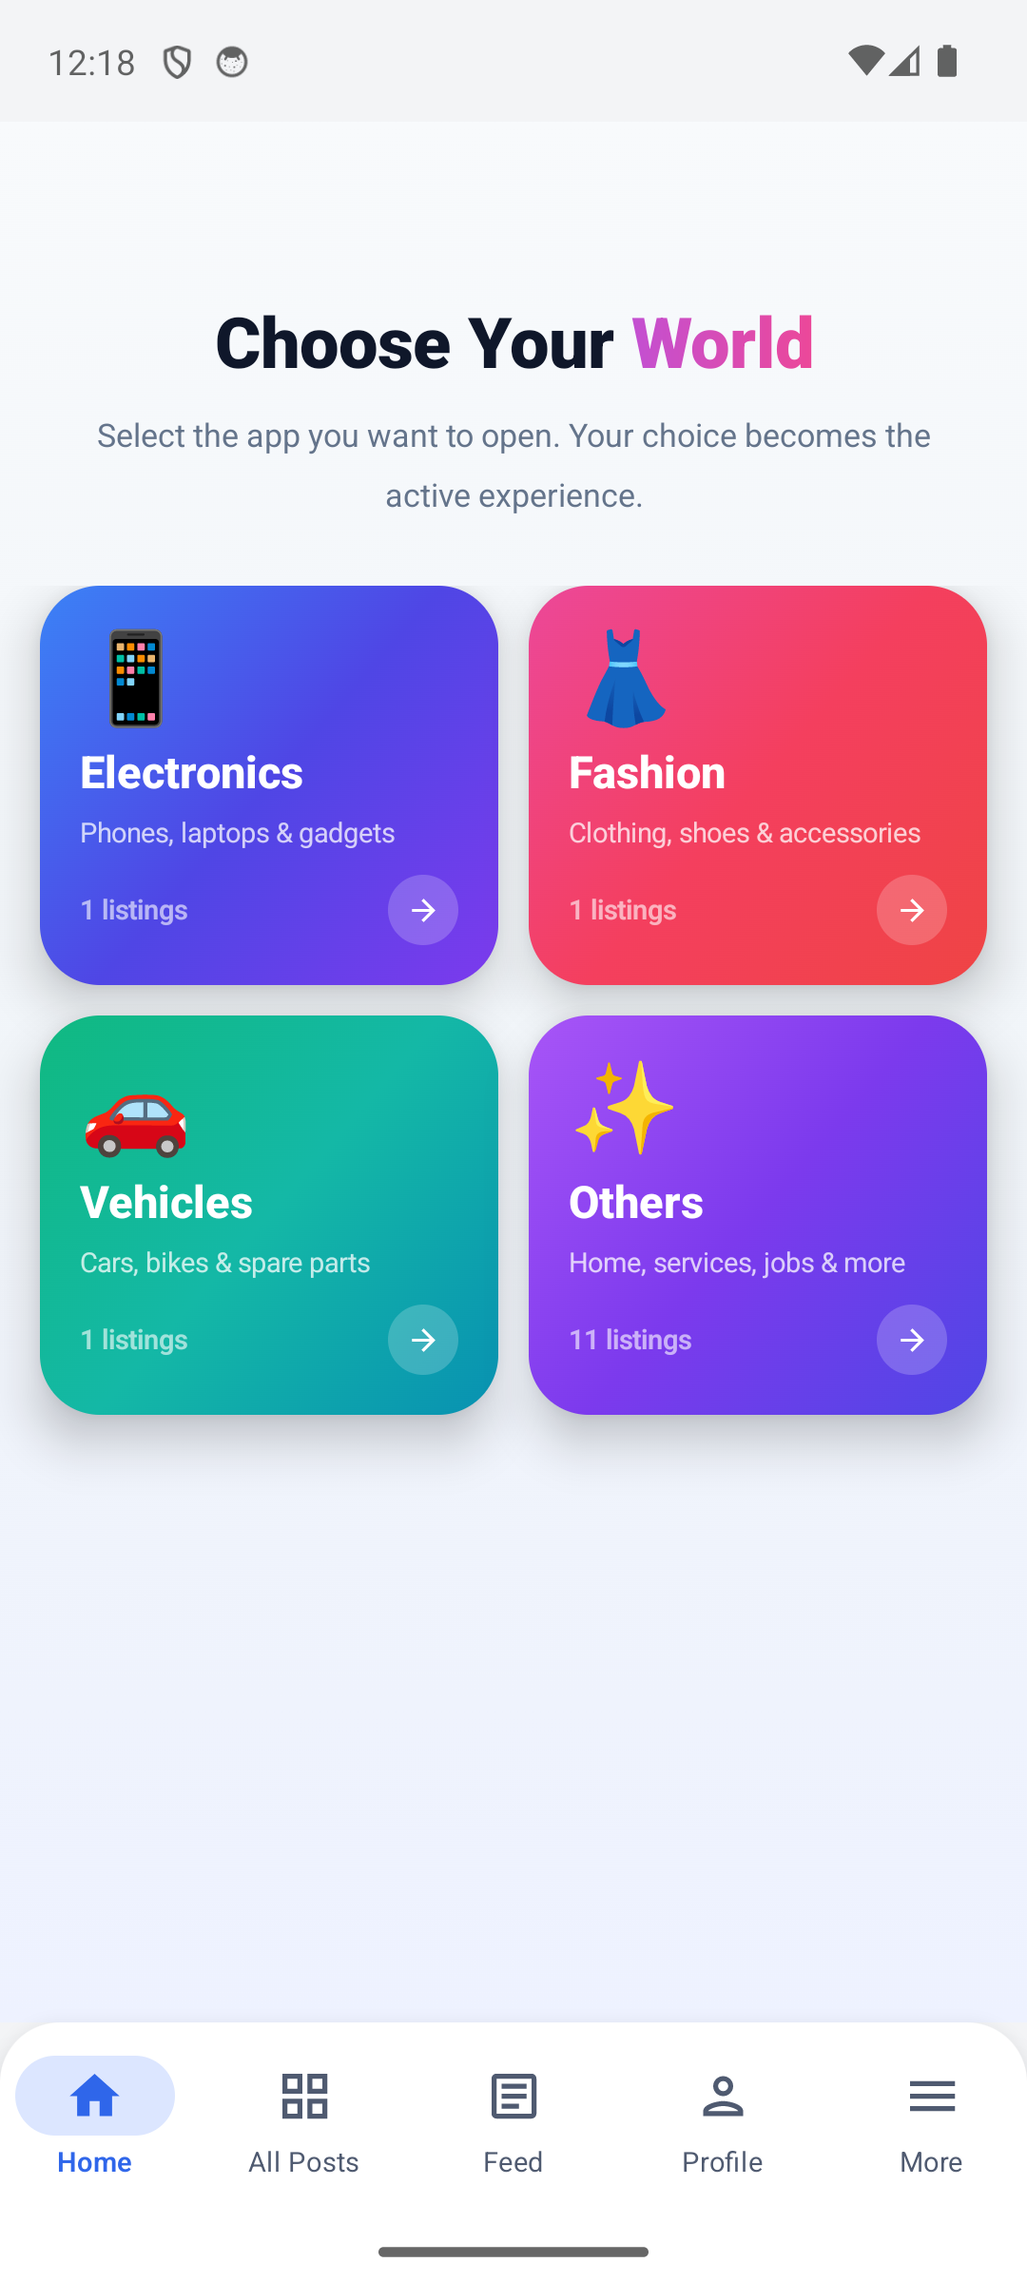
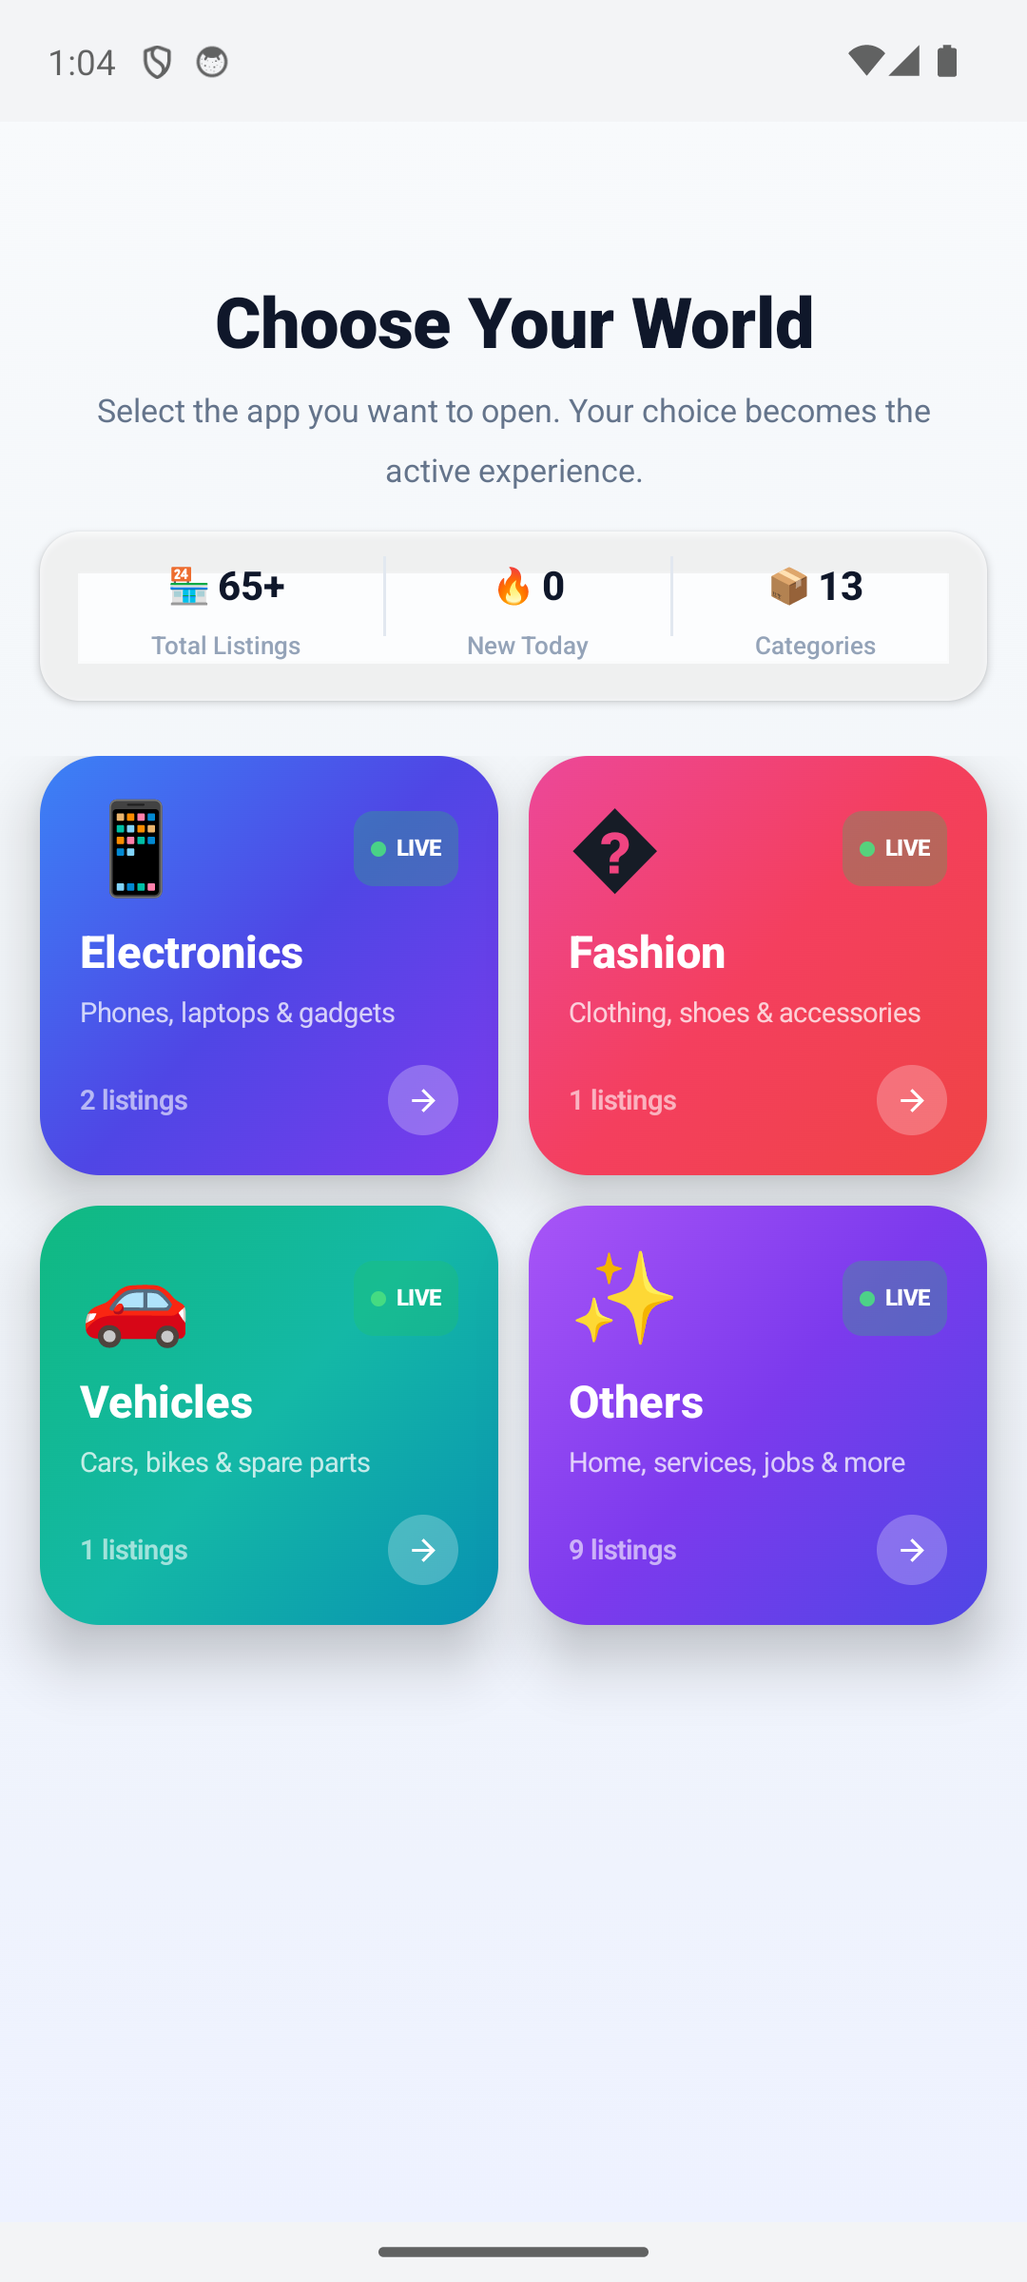
Parity: web-matching bottom nav (ForYou+Feed+Sell FAB), MoreScreen collapsible preferences

diff --git a/android-native/app/src/main/java/com/mhub/app/ui/MhubApp.kt b/android-native/app/src/main/java/com/mhub/app/ui/MhubApp.kt
@@ -15,26 +15,33 @@ import androidx.compose.foundation.layout.fillMaxWidth
 import androidx.compose.foundation.layout.padding
 import androidx.compose.foundation.layout.size
 import androidx.compose.foundation.shape.RoundedCornerShape
+import androidx.compose.foundation.interaction.MutableInteractionSource
+import androidx.compose.foundation.layout.Arrangement
+import androidx.compose.foundation.layout.Row
+import androidx.compose.foundation.layout.height
+import androidx.compose.foundation.layout.navigationBarsPadding
 import androidx.compose.material.icons.Icons
 import androidx.compose.material.icons.automirrored.filled.Article
+import androidx.compose.material.icons.automirrored.outlined.Article
 import androidx.compose.material.icons.filled.AddCircle
 import androidx.compose.material.icons.filled.EmojiEvents
+import androidx.compose.material.icons.filled.Explore
 import androidx.compose.material.icons.filled.GridView
 import androidx.compose.material.icons.filled.Home
 import androidx.compose.material.icons.filled.Menu
 import androidx.compose.material.icons.filled.Person
-import androidx.compose.material.icons.outlined.AddCircleOutline
 import androidx.compose.material.icons.outlined.EmojiEvents
+import androidx.compose.material.icons.outlined.Explore
 import androidx.compose.material.icons.outlined.GridView
 import androidx.compose.material.icons.outlined.Home
 import androidx.compose.material.icons.outlined.Menu
 import androidx.compose.material.icons.outlined.Person
+import androidx.compose.material3.FloatingActionButton
+import androidx.compose.material3.FloatingActionButtonDefaults
 import androidx.compose.material3.Icon
 import androidx.compose.material3.MaterialTheme
-import androidx.compose.material3.NavigationBar
-import androidx.compose.material3.NavigationBarItem
-import androidx.compose.material3.NavigationBarItemDefaults
 import androidx.compose.material3.Scaffold
+import androidx.compose.material3.Surface
 import androidx.compose.material3.Text
 import androidx.compose.runtime.Composable
 import androidx.compose.runtime.CompositionLocalProvider
@@ -419,7 +426,7 @@ fun MhubApp(
                 }
 
                 composable(Routes.FOR_YOU) {
-                    MainShell(navController = navController, selected = BottomTab.PROFILE, currentThemeMode = themeMode, onSetThemeMode = { themeVm.setThemeMode(it) }, showTopBar = true) {
+                    MainShell(navController = navController, selected = BottomTab.FOR_YOU, currentThemeMode = themeMode, onSetThemeMode = { themeVm.setThemeMode(it) }, showTopBar = true) {
                         com.mhub.app.ui.foryou.ForYouScreen(
                             onBack = { navController.popBackStack() },
                             onOpenPost = { id -> navController.navigate(Routes.postDetail(id)) { launchSingleTop = true } },
@@ -430,7 +437,7 @@ fun MhubApp(
                 }
 
                 composable(Routes.FEED) {
-                    MainShell(navController = navController, selected = BottomTab.PROFILE, currentThemeMode = themeMode, onSetThemeMode = { themeVm.setThemeMode(it) }, showTopBar = true) {
+                    MainShell(navController = navController, selected = BottomTab.FEED, currentThemeMode = themeMode, onSetThemeMode = { themeVm.setThemeMode(it) }, showTopBar = true) {
                         FeedScreen(
                             onOpenPost = { id -> navController.navigate(Routes.postDetail(id)) { launchSingleTop = true } },
                             onCreatePost = { navController.navigate(Routes.FEED_POST_ADD) { launchSingleTop = true } },
@@ -581,7 +588,7 @@ fun MhubApp(
 
             composable(Routes.CREATE_POST) {
                 if (needsLogin) {
-                    MainShell(navController = navController, selected = BottomTab.SELL, currentThemeMode = themeMode, onSetThemeMode = { themeVm.setThemeMode(it) }) {
+                    MainShell(navController = navController, selected = BottomTab.ALL_POSTS, currentThemeMode = themeMode, onSetThemeMode = { themeVm.setThemeMode(it) }) {
                         com.mhub.app.ui.components.LoginPromptCard(
                             onSignIn = { guestBrowsing = false; navController.navigate(Routes.AUTH_GRAPH) { popUpTo(0) { inclusive = true } } },
                             onCreateAccount = { guestBrowsing = false; navController.navigate(Routes.SIGNUP) { launchSingleTop = true } },
@@ -676,7 +683,7 @@ fun MhubApp(
 
             // ── Commerce ──
             composable(Routes.POST_WELCOME) {
-                MainShell(navController = navController, selected = BottomTab.SELL, currentThemeMode = themeMode, onSetThemeMode = { themeVm.setThemeMode(it) }) {
+                MainShell(navController = navController, selected = BottomTab.ALL_POSTS, currentThemeMode = themeMode, onSetThemeMode = { themeVm.setThemeMode(it) }) {
                     if (needsLogin) {
                         com.mhub.app.ui.components.LoginPromptCard(
                             onSignIn = { guestBrowsing = false; navController.navigate(Routes.AUTH_GRAPH) { popUpTo(0) { inclusive = true } } },
@@ -1384,7 +1391,8 @@ enum class BottomTab(
 ) {
     HOME(Routes.HOME, R.string.nav_home, Icons.Outlined.Home, Icons.Filled.Home),
     ALL_POSTS(Routes.ALL_POSTS, R.string.nav_explore, Icons.Outlined.GridView, Icons.Filled.GridView),
-    SELL(Routes.POST_WELCOME, R.string.nav_sell, Icons.Outlined.AddCircleOutline, Icons.Filled.AddCircle),
+    FOR_YOU(Routes.FOR_YOU, R.string.nav_for_you, Icons.Outlined.Explore, Icons.Filled.Explore),
+    FEED(Routes.FEED, R.string.nav_feed, Icons.AutoMirrored.Outlined.Article, Icons.AutoMirrored.Filled.Article),
     REWARDS(Routes.REWARDS, R.string.nav_rewards_tab, Icons.Outlined.EmojiEvents, Icons.Filled.EmojiEvents),
     PROFILE(Routes.PROFILE, R.string.nav_profile, Icons.Outlined.Person, Icons.Filled.Person),
 }
@@ -1416,72 +1424,108 @@ fun MainShell(
             bottomBar = {
                 if (showBottomBar) {
                 val liveActiveCategoryKey = LocalActiveCategoryKey.current ?: activeCategoryKey
-                NavigationBar(
-                    tonalElevation = 0.dp,
-                    containerColor = MaterialTheme.colorScheme.surface,
-                    modifier = Modifier.shadow(
-                        elevation = MhubElevation.bottomBar,
-                        shape = MhubShapes.bottomBar,
-                    ),
-                ) {
-                    BottomTab.entries.forEach { tab ->
-                        val isSelected = tab == selected
-                        NavigationBarItem(
-                            selected = isSelected,
-                            onClick = {
-                                val currentRoute = navController.currentDestination?.route
-                                val targetRoute = if (tab == BottomTab.ALL_POSTS && liveActiveCategoryKey != null) {
-                                    "cat/$liveActiveCategoryKey"
-                                } else {
-                                    tab.route
-                                }
-                                // For HOME tab, always reset to home (clear category context)
-                                if (tab == BottomTab.HOME) {
-                                    navController.navigate(Routes.HOME) {
-                                        popUpTo(Routes.MAIN_GRAPH) { inclusive = false }
-                                        launchSingleTop = true
-                                    }
-                                } else if (targetRoute != currentRoute) {
-                                    navController.navigate(targetRoute) {
-                                        // Pop up to the main graph root (not HOME) so category
-                                        // routes in the back stack survive tab switches.
-                                        popUpTo(Routes.MAIN_GRAPH) { saveState = true; inclusive = false }
-                                        launchSingleTop = true
-                                        restoreState = true
-                                    }
-                                }
-                            },
-                            icon = {
-                                Icon(
-                                    imageVector = if (isSelected) tab.iconFilled else tab.iconOutlined,
-                                    contentDescription = null,
-                                    modifier = Modifier.size(if (tab == BottomTab.SELL) 28.dp else 24.dp),
-                                )
-                            },
-                            label = {
-                                Text(
-                                    text = stringResource(tab.labelRes),
-                                    style = MaterialTheme.typography.labelSmall,
-                                    fontWeight = if (isSelected) FontWeight.SemiBold else FontWeight.Normal,
-                                )
-                            },
-                            alwaysShowLabel = true,
-                            colors = NavigationBarItemDefaults.colors(
-                                selectedIconColor = if (tab == BottomTab.SELL) MaterialTheme.colorScheme.tertiary else MaterialTheme.colorScheme.primary,
-                                selectedTextColor = if (tab == BottomTab.SELL) MaterialTheme.colorScheme.tertiary else MaterialTheme.colorScheme.primary,
-                                indicatorColor = if (tab == BottomTab.SELL) MaterialTheme.colorScheme.tertiaryContainer else MaterialTheme.colorScheme.primaryContainer,
-                            ),
-                        )
+                val openMore = LocalOnOpenMore.current
+                val navigateToTab: (BottomTab) -> Unit = { tab ->
+                    val currentRoute = navController.currentDestination?.route
+                    val targetRoute = if (tab == BottomTab.ALL_POSTS && liveActiveCategoryKey != null) {
+                        "cat/$liveActiveCategoryKey"
+                    } else {
+                        tab.route
                     }
-                    // "More" hamburger menu item
-                    val openMore = LocalOnOpenMore.current
-                    NavigationBarItem(
-                        selected = false,
-                        onClick = openMore,
-                        icon = { Icon(Icons.Outlined.Menu, contentDescription = null, modifier = Modifier.size(24.dp)) },
-                        label = { Text(stringResource(R.string.nav_more), style = MaterialTheme.typography.labelSmall) },
-                        alwaysShowLabel = true,
-                    )
+                    if (tab == BottomTab.HOME) {
+                        navController.navigate(Routes.HOME) {
+                            popUpTo(Routes.MAIN_GRAPH) { inclusive = false }
+                            launchSingleTop = true
+                        }
+                    } else if (targetRoute != currentRoute) {
+                        navController.navigate(targetRoute) {
+                            popUpTo(Routes.MAIN_GRAPH) { saveState = true; inclusive = false }
+                            launchSingleTop = true
+                            restoreState = true
+                        }
+                    }
+                }
+                Surface(
+                    modifier = Modifier
+                        .fillMaxWidth()
+                        .shadow(elevation = MhubElevation.bottomBar, shape = MhubShapes.bottomBar),
+                    color = MaterialTheme.colorScheme.surface,
+                    tonalElevation = 0.dp,
+                ) {
+                    Row(
+                        modifier = Modifier
+                            .fillMaxWidth()
+                            .height(60.dp)
+                            .navigationBarsPadding(),
+                        verticalAlignment = Alignment.CenterVertically,
+                    ) {
+                        // LEFT: Home | All Posts | For You
+                        listOf(BottomTab.HOME, BottomTab.ALL_POSTS, BottomTab.FOR_YOU).forEach { tab ->
+                            BottomNavTabItem(
+                                tab = tab,
+                                isSelected = tab == selected,
+                                modifier = Modifier.weight(1f),
+                                onClick = { navigateToTab(tab) },
+                            )
+                        }
+                        // CENTER: Sell FAB
+                        Box(
+                            modifier = Modifier.size(52.dp),
+                            contentAlignment = Alignment.Center,
+                        ) {
+                            FloatingActionButton(
+                                onClick = { navController.navigate(Routes.POST_WELCOME) { launchSingleTop = true } },
+                                containerColor = MaterialTheme.colorScheme.primary,
+                                contentColor = Color.White,
+                                modifier = Modifier.size(44.dp),
+                                elevation = FloatingActionButtonDefaults.elevation(
+                                    defaultElevation = 4.dp,
+                                    pressedElevation = 8.dp,
+                                ),
+                            ) {
+                                Icon(
+                                    Icons.Filled.AddCircle,
+                                    contentDescription = stringResource(R.string.nav_sell),
+                                    modifier = Modifier.size(22.dp),
+                                )
+                            }
+                        }
+                        // RIGHT: Feed | Rewards | Profile
+                        listOf(BottomTab.FEED, BottomTab.REWARDS, BottomTab.PROFILE).forEach { tab ->
+                            BottomNavTabItem(
+                                tab = tab,
+                                isSelected = tab == selected,
+                                modifier = Modifier.weight(1f),
+                                onClick = { navigateToTab(tab) },
+                            )
+                        }
+                        // MORE
+                        Column(
+                            modifier = Modifier
+                                .weight(1f)
+                                .fillMaxHeight()
+                                .clickable(
+                                    indication = null,
+                                    interactionSource = remember { MutableInteractionSource() },
+                                    onClick = openMore,
+                                ),
+                            horizontalAlignment = Alignment.CenterHorizontally,
+                            verticalArrangement = Arrangement.Center,
+                        ) {
+                            Icon(
+                                Icons.Outlined.Menu,
+                                contentDescription = null,
+                                modifier = Modifier.size(24.dp),
+                                tint = MaterialTheme.colorScheme.onSurfaceVariant,
+                            )
+                            Text(
+                                text = stringResource(R.string.nav_more),
+                                style = MaterialTheme.typography.labelSmall,
+                                color = MaterialTheme.colorScheme.onSurfaceVariant,
+                                fontWeight = FontWeight.Normal,
+                            )
+                        }
+                    }
                 }
                 }
             },
@@ -1490,6 +1534,40 @@ fun MainShell(
                 content()
             }
         }
+    }
+}
+
+@Composable
+private fun BottomNavTabItem(
+    tab: BottomTab,
+    isSelected: Boolean,
+    modifier: Modifier = Modifier,
+    onClick: () -> Unit,
+) {
+    val contentColor = if (isSelected) MaterialTheme.colorScheme.primary else MaterialTheme.colorScheme.onSurfaceVariant
+    Column(
+        modifier = modifier
+            .fillMaxHeight()
+            .clickable(
+                indication = null,
+                interactionSource = remember { MutableInteractionSource() },
+                onClick = onClick,
+            ),
+        horizontalAlignment = Alignment.CenterHorizontally,
+        verticalArrangement = Arrangement.Center,
+    ) {
+        Icon(
+            imageVector = if (isSelected) tab.iconFilled else tab.iconOutlined,
+            contentDescription = null,
+            modifier = Modifier.size(24.dp),
+            tint = contentColor,
+        )
+        Text(
+            text = stringResource(tab.labelRes),
+            style = MaterialTheme.typography.labelSmall,
+            color = contentColor,
+            fontWeight = if (isSelected) FontWeight.SemiBold else FontWeight.Normal,
+        )
     }
 }
 

diff --git a/android-native/app/src/main/java/com/mhub/app/ui/more/MoreScreen.kt b/android-native/app/src/main/java/com/mhub/app/ui/more/MoreScreen.kt
@@ -165,6 +165,7 @@ fun MoreScreen(
     onSetThemeMode: (ThemeMode) -> Unit = {},
 ) {
     var searchQuery by remember { mutableStateOf("") }
+    var prefsExpanded by rememberSaveable { mutableStateOf(false) }
     val expandedGroups = remember { mutableStateOf(setOf("Trade & Browse", "Social")) }
     fun toggleGroup(header: String) {
         expandedGroups.value = if (header in expandedGroups.value) expandedGroups.value - header else expandedGroups.value + header
@@ -289,8 +290,33 @@ fun MoreScreen(
             )
         }
 
+        // Preferences section header (collapsed by default — menu items visible first)
+        item(key = "prefs_header") {
+            Card(
+                shape = RoundedCornerShape(14.dp),
+                colors = CardDefaults.cardColors(containerColor = MaterialTheme.colorScheme.surfaceVariant.copy(alpha = 0.5f)),
+                modifier = Modifier.fillMaxWidth().clickable { prefsExpanded = !prefsExpanded },
+            ) {
+                Row(
+                    modifier = Modifier.fillMaxWidth().padding(horizontal = 12.dp, vertical = 10.dp),
+                    verticalAlignment = Alignment.CenterVertically,
+                    horizontalArrangement = Arrangement.spacedBy(8.dp),
+                ) {
+                    Icon(Icons.Outlined.Settings, contentDescription = null, modifier = Modifier.size(20.dp), tint = MaterialTheme.colorScheme.onSurfaceVariant)
+                    Text(stringResource(R.string.more_appearance_language), fontWeight = FontWeight.Medium, style = MaterialTheme.typography.bodyMedium)
+                    Spacer(Modifier.weight(1f))
+                    Icon(
+                        if (prefsExpanded) Icons.Default.ExpandLess else Icons.Default.ExpandMore,
+                        contentDescription = null,
+                        tint = MaterialTheme.colorScheme.onSurfaceVariant,
+                        modifier = Modifier.size(18.dp),
+                    )
+                }
+            }
+        }
+
         // Theme mode toggle (Light / System / Dark) — matches web
-        item {
+        if (prefsExpanded) item {
             Card(
                 shape = RoundedCornerShape(14.dp),
                 colors = CardDefaults.cardColors(containerColor = MaterialTheme.colorScheme.surfaceVariant.copy(alpha = 0.5f)),
@@ -325,7 +351,7 @@ fun MoreScreen(
         }
 
         // Language selector — matches web's 25 languages
-        item {
+        if (prefsExpanded) item {
             val currentLocale = androidx.appcompat.app.AppCompatDelegate.getApplicationLocales().toLanguageTags().ifEmpty { "en" }
             var selectedLang by remember { mutableStateOf(currentLocale.split(",").first().split("-").first()) }
             var showAllLangs by rememberSaveable { mutableStateOf(false) }
